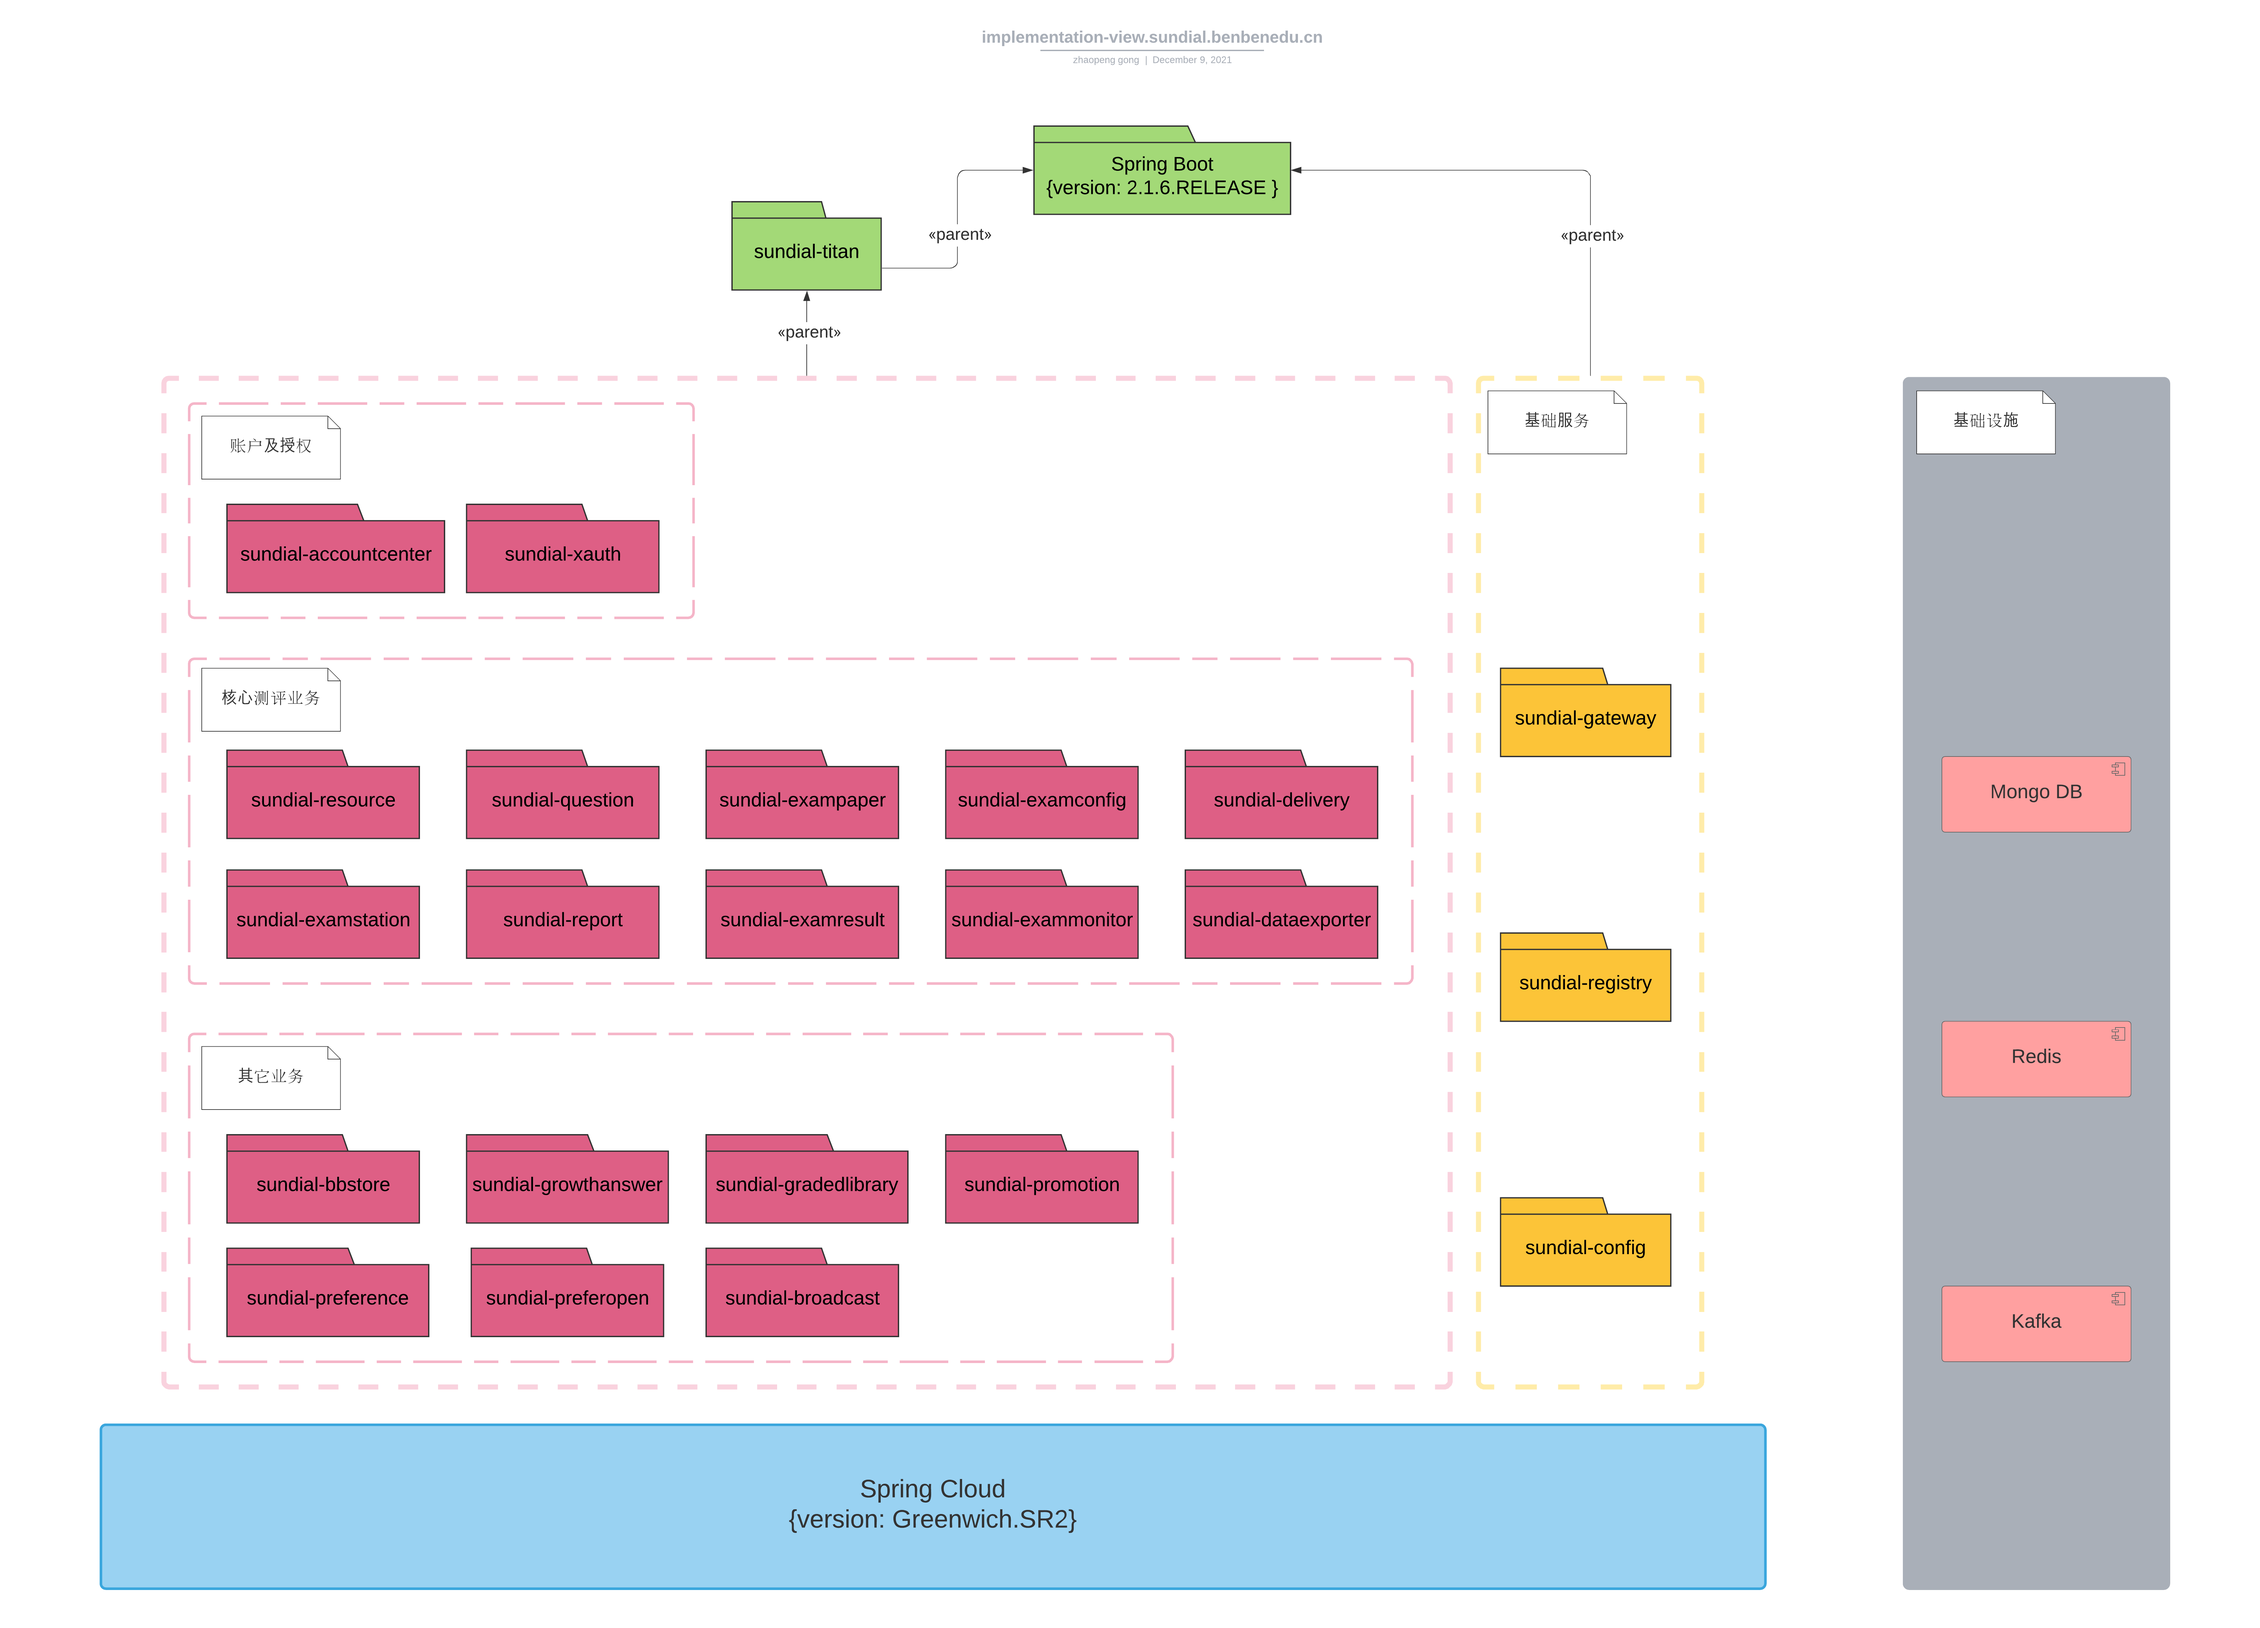
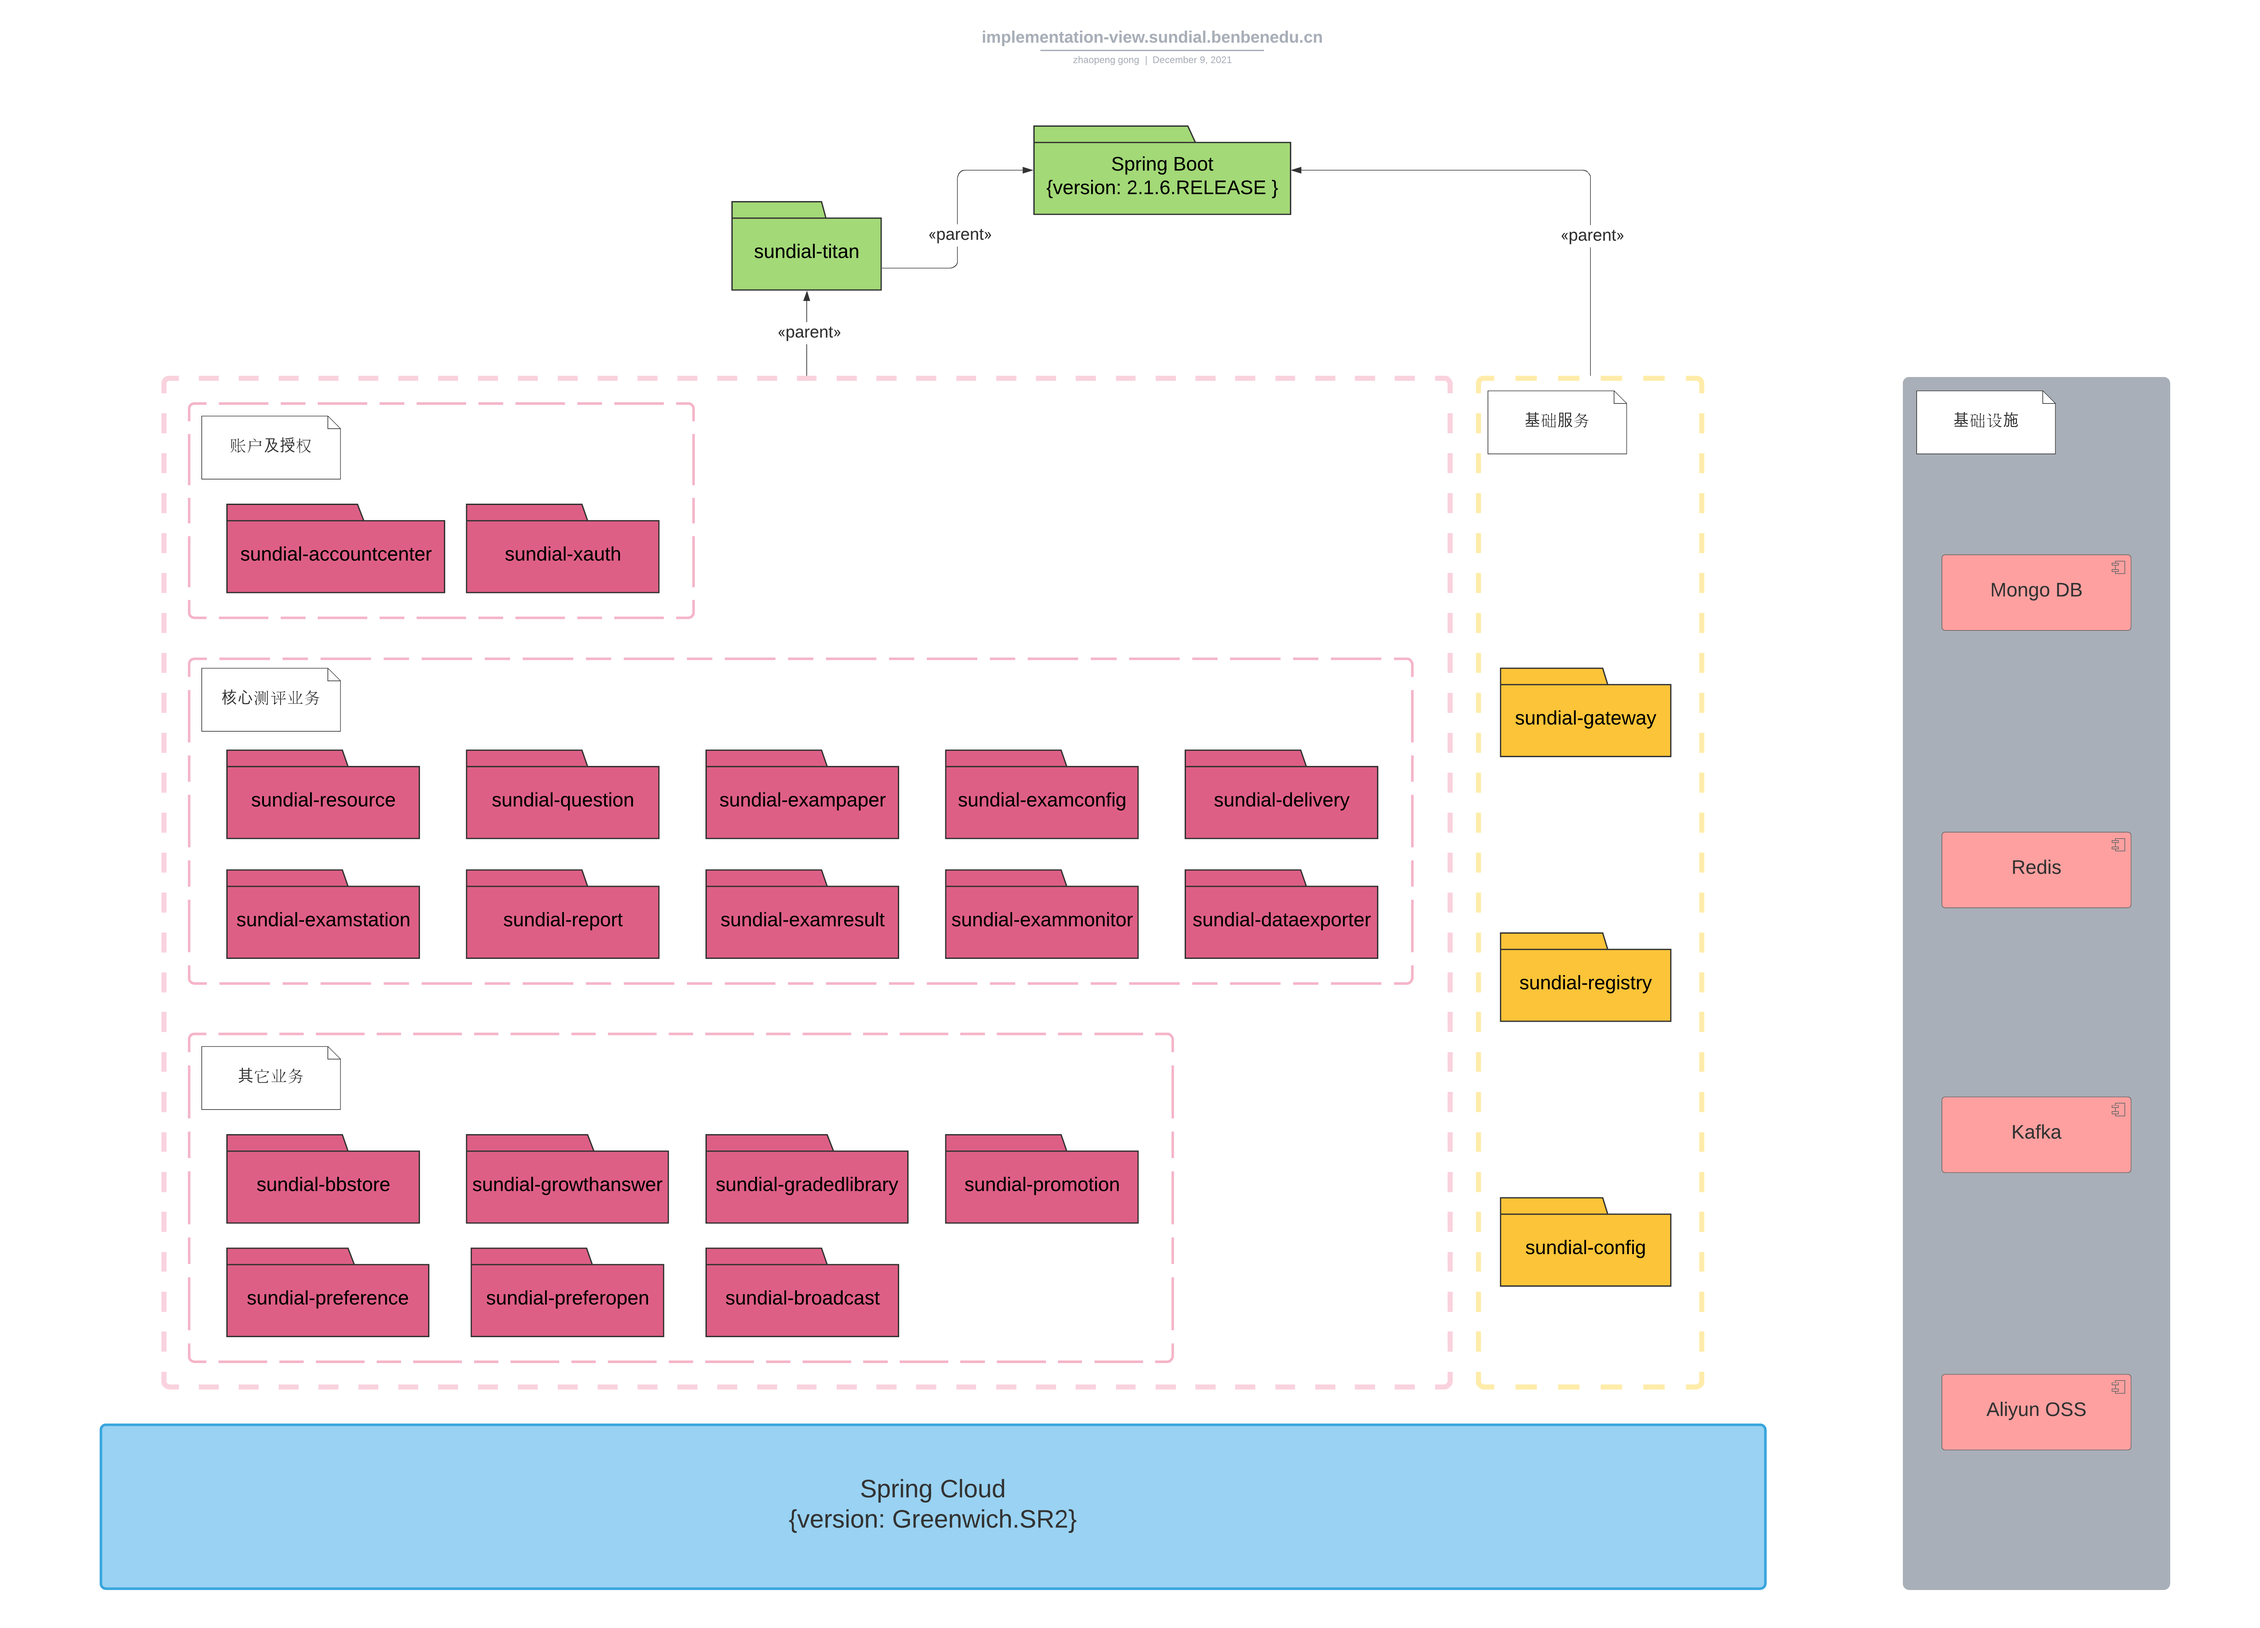
...

diff --git a/architecture.doc.sundial.benbenedu.cn/architecture.doc.sundial.benbenedu.cn.md b/architecture.doc.sundial.benbenedu.cn/architecture.doc.sundial.benbenedu.cn.md
@@ -93,7 +93,70 @@ Sundial测评中台支撑测评相关的三类业务活动
 
 > ## *2. 实现*
 
+Sundial测评中台采用微服务模式，基于Spring Cloud及Spring Boot框架提供的能力进行开发。  
+选用Mongo DB作为主要的数据库组件，Redis作为缓存组件，Kafka作为消息中间件，Aliyun OSS作为公开的资源存储服务。  
+各个微服务项目、开发框架及基础设施组件的结构如下图所示。
+
 ![implementation-view.sundial.benbenedu.cn](./resources/implementation-view.sundial.benbenedu.cn.png)
+
+以下按分类对每个微服务项目做简要说明。
+
+> ### *2.1 基础服务*
+
+- ***sundial-config | 配置中心***  
+  为所有其它微服务提供统一的、集中化的配置服务。
+
+
+- ***sundial-registry | 注册中心***  
+  提供微服务注册、查找等基础服务能力。
+
+
+- ***sundial-gateway | 网关***  
+  Sundial测评中台对外的统一的访问入口。
+
+> ### *2.2 账户及授权*
+
+- ***sundial-accountcenter | 账户中心***  
+  管理账户及相关信息，如账户注册，账户创建、修改等等。
+
+
+- ***sundial-xauth | 授权中心***  
+  认证、授权及权限控制等。
+
+> ### *2.3 核心测评业务*
+
+- ***sundial-resource***  
+  上传、管理资源，如图片、音频、视频等。
+
+
+- ***sundial-question***  
+  创建题目，题库管理。
+
+
+- ***sundial-exampaper***  
+  创建、管理试卷模子。
+
+
+- ***sundial-examconfig***  
+  创建、管理考试/考试链。  
+
+
+- ***sundial-delivery***  
+  将题目、试卷模子、考试/考试链等业务对象引用的资源递送至公开的资源服务(Aliyun OSS)，使其外部可见。  
+  维护、管理相关的递送任务。  
+
+
+- ***sundial-examstation | 考试站***  
+  载入考试/考试链及相关的试卷模子等。  
+  创建、管理测评实施相关的测评码、白名单等参测凭证。  
+  控制准考证的申请、相关参测凭证的核销，分发试卷，接收答卷的提交。  
+  是驱动测评过程实际执行的核心服务。   
+
+
+- ***sundial-examstation | 考试站***
+
+
+> ### *2.4 其它业务*
 
 > ## *3. 进程视图*
 
